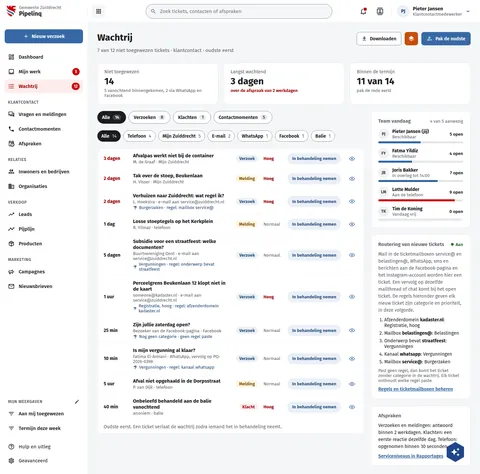
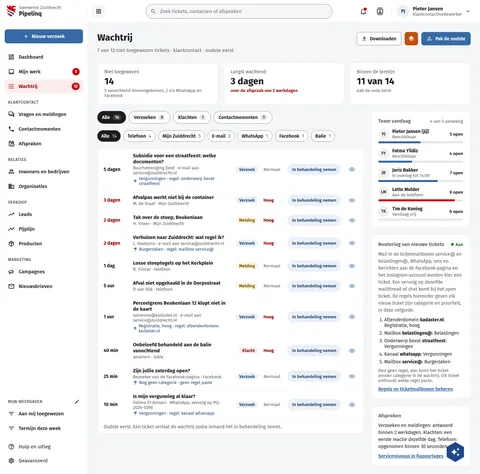
fix(screens): PqWachtrij rows end with a comma so the reordered list parses
The reorder put the row without a trailing comma mid-list and build.py exited 1; the flattened board and thumbnail are rebuilt from the fixed source.

Assisted-by: ClaudeCode:claude-fable-5-1

diff --git a/preview/screens/boards/PqWachtrij.html b/preview/screens/boards/PqWachtrij.html
@@ -248,6 +248,15 @@ a{color:var(--sc-primary, #3669a5)}a:hover{color:var(--sc-primary-deep, #234a78)
           <section style="min-width: 0; background: #ffffff; border: 1px solid var(--sc-work-line, #e4e6ea); border-radius: 12px; display: flex; flex-direction: column">
             
               <div style="display: flex; flex-wrap: wrap; align-items: center; gap: 8px 16px; padding: 12px 18px; border-bottom: 1px solid var(--sc-work-soft, #eef0f3)">
+                <span style="flex: none; width: 72px; font-size: 14px; font-weight: 700; color: var(--sc-work-ink, #1b1c1d);">5 dagen</span>
+                <a href="PqTicket.html" style="flex: 1 1 260px; display: flex; flex-direction: column; gap: 2px; color: var(--sc-work-ink, #1b1c1d); text-decoration: none"><strong style="font-size: 15px">Subsidie voor een straatfeest: welke documenten?</strong><span style="font-size: 13px; color: var(--sc-work-muted, #5e6168)">Buurtvereniging Oost · e-mail aan service@zuiddrecht.nl</span><span style="display: inline-flex; align-items: center; gap: 5px; font-size: 13px; color: var(--sc-primary-deep, #234a78)"><svg width="13" height="13" viewbox="0 0 24 24" fill="currentColor" aria-hidden="true"><path d="M11,10H5L3,8L5,6H11V3L12,2L13,3V4H19L21,6L19,8H13V10H19L21,12L19,14H13V20A2,2 0 0,1 15,22H9A2,2 0 0,1 11,20V10Z"></path></svg>Vergunningen · regel: onderwerp bevat straatfeest</span></a>
+                <span style="display: inline-block; padding: 3px 10px; border-radius: 12px; font-size: 13px; font-weight: 600; white-space: nowrap; background: var(--sc-primary-light, #eaf0f7); color: var(--sc-primary-deep, #234a78)">Verzoek</span>
+                <span style="width: 56px; font-size: 13px; color: var(--sc-work-muted, #5e6168);">Normaal</span>
+                <button type="button" style="height: 34px; padding: 0 14px; border: 0; border-radius: 17px; background: var(--sc-primary-light, #eaf0f7); color: var(--sc-primary-deep, #234a78); font: 600 13px var(--sc-font, 'Fira Sans'), sans-serif">In behandeling nemen</button>
+                <a href="PqTicket.html" aria-label="Ticket bekijken" style="width: 34px; height: 34px; border-radius: 17px; display: inline-flex; align-items: center; justify-content: center; color: var(--sc-primary, #3669a5)"><svg width="18" height="18" viewbox="0 0 24 24" fill="currentColor"><path d="M12,9A3,3 0 0,1 15,12A3,3 0 0,1 12,15A3,3 0 0,1 9,12A3,3 0 0,1 12,9M12,4.5C17,4.5 21.27,7.61 23,12C21.27,16.39 17,19.5 12,19.5C7,19.5 2.73,16.39 1,12C2.73,7.61 7,4.5 12,4.5M3.18,12C4.83,15.36 8.24,17.5 12,17.5C15.76,17.5 19.17,15.36 20.82,12C19.17,8.64 15.76,6.5 12,6.5C8.24,6.5 4.83,8.64 3.18,12Z"></path></svg></a>
+              </div>
+            
+              <div style="display: flex; flex-wrap: wrap; align-items: center; gap: 8px 16px; padding: 12px 18px; border-bottom: 1px solid var(--sc-work-soft, #eef0f3)">
                 <span style="flex: none; width: 72px; font-size: 14px; font-weight: 700; color: var(--sc-accent-deep, #a30000);">3 dagen</span>
                 <a href="PqTicket.html" style="flex: 1 1 260px; display: flex; flex-direction: column; gap: 2px; color: var(--sc-work-ink, #1b1c1d); text-decoration: none"><strong style="font-size: 15px">Afvalpas werkt niet bij de container</strong><span style="font-size: 13px; color: var(--sc-work-muted, #5e6168)">M. de Graaf · Mijn Zuiddrecht</span></a>
                 <span style="display: inline-block; padding: 3px 10px; border-radius: 12px; font-size: 13px; font-weight: 600; white-space: nowrap; background: var(--sc-primary-light, #eaf0f7); color: var(--sc-primary-deep, #234a78)">Verzoek</span>
@@ -284,9 +293,9 @@ a{color:var(--sc-primary, #3669a5)}a:hover{color:var(--sc-primary-deep, #234a78)
               </div>
             
               <div style="display: flex; flex-wrap: wrap; align-items: center; gap: 8px 16px; padding: 12px 18px; border-bottom: 1px solid var(--sc-work-soft, #eef0f3)">
-                <span style="flex: none; width: 72px; font-size: 14px; font-weight: 700; color: var(--sc-work-ink, #1b1c1d);">5 dagen</span>
-                <a href="PqTicket.html" style="flex: 1 1 260px; display: flex; flex-direction: column; gap: 2px; color: var(--sc-work-ink, #1b1c1d); text-decoration: none"><strong style="font-size: 15px">Subsidie voor een straatfeest: welke documenten?</strong><span style="font-size: 13px; color: var(--sc-work-muted, #5e6168)">Buurtvereniging Oost · e-mail aan service@zuiddrecht.nl</span><span style="display: inline-flex; align-items: center; gap: 5px; font-size: 13px; color: var(--sc-primary-deep, #234a78)"><svg width="13" height="13" viewbox="0 0 24 24" fill="currentColor" aria-hidden="true"><path d="M11,10H5L3,8L5,6H11V3L12,2L13,3V4H19L21,6L19,8H13V10H19L21,12L19,14H13V20A2,2 0 0,1 15,22H9A2,2 0 0,1 11,20V10Z"></path></svg>Vergunningen · regel: onderwerp bevat straatfeest</span></a>
-                <span style="display: inline-block; padding: 3px 10px; border-radius: 12px; font-size: 13px; font-weight: 600; white-space: nowrap; background: var(--sc-primary-light, #eaf0f7); color: var(--sc-primary-deep, #234a78)">Verzoek</span>
+                <span style="flex: none; width: 72px; font-size: 14px; font-weight: 700; color: var(--sc-work-ink, #1b1c1d);">5 uur</span>
+                <a href="PqTicket.html" style="flex: 1 1 260px; display: flex; flex-direction: column; gap: 2px; color: var(--sc-work-ink, #1b1c1d); text-decoration: none"><strong style="font-size: 15px">Afval niet opgehaald in de Dorpsstraat</strong><span style="font-size: 13px; color: var(--sc-work-muted, #5e6168)">P. van Dijk · telefoon</span></a>
+                <span style="display: inline-block; padding: 3px 10px; border-radius: 12px; font-size: 13px; font-weight: 600; white-space: nowrap; background: #fff4de; color: #7a4f00">Melding</span>
                 <span style="width: 56px; font-size: 13px; color: var(--sc-work-muted, #5e6168);">Normaal</span>
                 <button type="button" style="height: 34px; padding: 0 14px; border: 0; border-radius: 17px; background: var(--sc-primary-light, #eaf0f7); color: var(--sc-primary-deep, #234a78); font: 600 13px var(--sc-font, 'Fira Sans'), sans-serif">In behandeling nemen</button>
                 <a href="PqTicket.html" aria-label="Ticket bekijken" style="width: 34px; height: 34px; border-radius: 17px; display: inline-flex; align-items: center; justify-content: center; color: var(--sc-primary, #3669a5)"><svg width="18" height="18" viewbox="0 0 24 24" fill="currentColor"><path d="M12,9A3,3 0 0,1 15,12A3,3 0 0,1 12,15A3,3 0 0,1 9,12A3,3 0 0,1 12,9M12,4.5C17,4.5 21.27,7.61 23,12C21.27,16.39 17,19.5 12,19.5C7,19.5 2.73,16.39 1,12C2.73,7.61 7,4.5 12,4.5M3.18,12C4.83,15.36 8.24,17.5 12,17.5C15.76,17.5 19.17,15.36 20.82,12C19.17,8.64 15.76,6.5 12,6.5C8.24,6.5 4.83,8.64 3.18,12Z"></path></svg></a>
@@ -296,6 +305,15 @@ a{color:var(--sc-primary, #3669a5)}a:hover{color:var(--sc-primary-deep, #234a78)
                 <span style="flex: none; width: 72px; font-size: 14px; font-weight: 700; color: var(--sc-work-ink, #1b1c1d);">1 uur</span>
                 <a href="PqTicket.html" style="flex: 1 1 260px; display: flex; flex-direction: column; gap: 2px; color: var(--sc-work-ink, #1b1c1d); text-decoration: none"><strong style="font-size: 15px">Perceelgrens Beukenlaan 12 klopt niet in de kaart</strong><span style="font-size: 13px; color: var(--sc-work-muted, #5e6168)">someone@kadaster.nl · e-mail aan service@zuiddrecht.nl</span><span style="display: inline-flex; align-items: center; gap: 5px; font-size: 13px; color: var(--sc-primary-deep, #234a78)"><svg width="13" height="13" viewbox="0 0 24 24" fill="currentColor" aria-hidden="true"><path d="M11,10H5L3,8L5,6H11V3L12,2L13,3V4H19L21,6L19,8H13V10H19L21,12L19,14H13V20A2,2 0 0,1 15,22H9A2,2 0 0,1 11,20V10Z"></path></svg>Registratie, hoog · regel: afzenderdomein kadaster.nl</span></a>
                 <span style="display: inline-block; padding: 3px 10px; border-radius: 12px; font-size: 13px; font-weight: 600; white-space: nowrap; background: var(--sc-primary-light, #eaf0f7); color: var(--sc-primary-deep, #234a78)">Verzoek</span>
+                <span style="width: 56px; font-size: 13px; color: var(--sc-accent-deep, #a30000); font-weight: 700;">Hoog</span>
+                <button type="button" style="height: 34px; padding: 0 14px; border: 0; border-radius: 17px; background: var(--sc-primary-light, #eaf0f7); color: var(--sc-primary-deep, #234a78); font: 600 13px var(--sc-font, 'Fira Sans'), sans-serif">In behandeling nemen</button>
+                <a href="PqTicket.html" aria-label="Ticket bekijken" style="width: 34px; height: 34px; border-radius: 17px; display: inline-flex; align-items: center; justify-content: center; color: var(--sc-primary, #3669a5)"><svg width="18" height="18" viewbox="0 0 24 24" fill="currentColor"><path d="M12,9A3,3 0 0,1 15,12A3,3 0 0,1 12,15A3,3 0 0,1 9,12A3,3 0 0,1 12,9M12,4.5C17,4.5 21.27,7.61 23,12C21.27,16.39 17,19.5 12,19.5C7,19.5 2.73,16.39 1,12C2.73,7.61 7,4.5 12,4.5M3.18,12C4.83,15.36 8.24,17.5 12,17.5C15.76,17.5 19.17,15.36 20.82,12C19.17,8.64 15.76,6.5 12,6.5C8.24,6.5 4.83,8.64 3.18,12Z"></path></svg></a>
+              </div>
+            
+              <div style="display: flex; flex-wrap: wrap; align-items: center; gap: 8px 16px; padding: 12px 18px; border-bottom: 1px solid var(--sc-work-soft, #eef0f3)">
+                <span style="flex: none; width: 72px; font-size: 14px; font-weight: 700; color: var(--sc-work-ink, #1b1c1d);">40 min</span>
+                <a href="PqTicket.html" style="flex: 1 1 260px; display: flex; flex-direction: column; gap: 2px; color: var(--sc-work-ink, #1b1c1d); text-decoration: none"><strong style="font-size: 15px">Onbeleefd behandeld aan de balie vanochtend</strong><span style="font-size: 13px; color: var(--sc-work-muted, #5e6168)">anoniem · balie</span></a>
+                <span style="display: inline-block; padding: 3px 10px; border-radius: 12px; font-size: 13px; font-weight: 600; white-space: nowrap; background: #fcedec; color: var(--sc-accent-deep, #a30000)">Klacht</span>
                 <span style="width: 56px; font-size: 13px; color: var(--sc-accent-deep, #a30000); font-weight: 700;">Hoog</span>
                 <button type="button" style="height: 34px; padding: 0 14px; border: 0; border-radius: 17px; background: var(--sc-primary-light, #eaf0f7); color: var(--sc-primary-deep, #234a78); font: 600 13px var(--sc-font, 'Fira Sans'), sans-serif">In behandeling nemen</button>
                 <a href="PqTicket.html" aria-label="Ticket bekijken" style="width: 34px; height: 34px; border-radius: 17px; display: inline-flex; align-items: center; justify-content: center; color: var(--sc-primary, #3669a5)"><svg width="18" height="18" viewbox="0 0 24 24" fill="currentColor"><path d="M12,9A3,3 0 0,1 15,12A3,3 0 0,1 12,15A3,3 0 0,1 9,12A3,3 0 0,1 12,9M12,4.5C17,4.5 21.27,7.61 23,12C21.27,16.39 17,19.5 12,19.5C7,19.5 2.73,16.39 1,12C2.73,7.61 7,4.5 12,4.5M3.18,12C4.83,15.36 8.24,17.5 12,17.5C15.76,17.5 19.17,15.36 20.82,12C19.17,8.64 15.76,6.5 12,6.5C8.24,6.5 4.83,8.64 3.18,12Z"></path></svg></a>
@@ -315,24 +333,6 @@ a{color:var(--sc-primary, #3669a5)}a:hover{color:var(--sc-primary-deep, #234a78)
                 <a href="PqTicket.html" style="flex: 1 1 260px; display: flex; flex-direction: column; gap: 2px; color: var(--sc-work-ink, #1b1c1d); text-decoration: none"><strong style="font-size: 15px">Is mijn vergunning al klaar?</strong><span style="font-size: 13px; color: var(--sc-work-muted, #5e6168)">Fatima El-Amrani · WhatsApp, vervolg op PQ-2026-0398</span><span style="display: inline-flex; align-items: center; gap: 5px; font-size: 13px; color: var(--sc-primary-deep, #234a78)"><svg width="13" height="13" viewbox="0 0 24 24" fill="currentColor" aria-hidden="true"><path d="M11,10H5L3,8L5,6H11V3L12,2L13,3V4H19L21,6L19,8H13V10H19L21,12L19,14H13V20A2,2 0 0,1 15,22H9A2,2 0 0,1 11,20V10Z"></path></svg>Vergunningen · regel: kanaal whatsapp</span></a>
                 <span style="display: inline-block; padding: 3px 10px; border-radius: 12px; font-size: 13px; font-weight: 600; white-space: nowrap; background: var(--sc-primary-light, #eaf0f7); color: var(--sc-primary-deep, #234a78)">Verzoek</span>
                 <span style="width: 56px; font-size: 13px; color: var(--sc-work-muted, #5e6168);">Normaal</span>
-                <button type="button" style="height: 34px; padding: 0 14px; border: 0; border-radius: 17px; background: var(--sc-primary-light, #eaf0f7); color: var(--sc-primary-deep, #234a78); font: 600 13px var(--sc-font, 'Fira Sans'), sans-serif">In behandeling nemen</button>
-                <a href="PqTicket.html" aria-label="Ticket bekijken" style="width: 34px; height: 34px; border-radius: 17px; display: inline-flex; align-items: center; justify-content: center; color: var(--sc-primary, #3669a5)"><svg width="18" height="18" viewbox="0 0 24 24" fill="currentColor"><path d="M12,9A3,3 0 0,1 15,12A3,3 0 0,1 12,15A3,3 0 0,1 9,12A3,3 0 0,1 12,9M12,4.5C17,4.5 21.27,7.61 23,12C21.27,16.39 17,19.5 12,19.5C7,19.5 2.73,16.39 1,12C2.73,7.61 7,4.5 12,4.5M3.18,12C4.83,15.36 8.24,17.5 12,17.5C15.76,17.5 19.17,15.36 20.82,12C19.17,8.64 15.76,6.5 12,6.5C8.24,6.5 4.83,8.64 3.18,12Z"></path></svg></a>
-              </div>
-            
-              <div style="display: flex; flex-wrap: wrap; align-items: center; gap: 8px 16px; padding: 12px 18px; border-bottom: 1px solid var(--sc-work-soft, #eef0f3)">
-                <span style="flex: none; width: 72px; font-size: 14px; font-weight: 700; color: var(--sc-work-ink, #1b1c1d);">5 uur</span>
-                <a href="PqTicket.html" style="flex: 1 1 260px; display: flex; flex-direction: column; gap: 2px; color: var(--sc-work-ink, #1b1c1d); text-decoration: none"><strong style="font-size: 15px">Afval niet opgehaald in de Dorpsstraat</strong><span style="font-size: 13px; color: var(--sc-work-muted, #5e6168)">P. van Dijk · telefoon</span></a>
-                <span style="display: inline-block; padding: 3px 10px; border-radius: 12px; font-size: 13px; font-weight: 600; white-space: nowrap; background: #fff4de; color: #7a4f00">Melding</span>
-                <span style="width: 56px; font-size: 13px; color: var(--sc-work-muted, #5e6168);">Normaal</span>
-                <button type="button" style="height: 34px; padding: 0 14px; border: 0; border-radius: 17px; background: var(--sc-primary-light, #eaf0f7); color: var(--sc-primary-deep, #234a78); font: 600 13px var(--sc-font, 'Fira Sans'), sans-serif">In behandeling nemen</button>
-                <a href="PqTicket.html" aria-label="Ticket bekijken" style="width: 34px; height: 34px; border-radius: 17px; display: inline-flex; align-items: center; justify-content: center; color: var(--sc-primary, #3669a5)"><svg width="18" height="18" viewbox="0 0 24 24" fill="currentColor"><path d="M12,9A3,3 0 0,1 15,12A3,3 0 0,1 12,15A3,3 0 0,1 9,12A3,3 0 0,1 12,9M12,4.5C17,4.5 21.27,7.61 23,12C21.27,16.39 17,19.5 12,19.5C7,19.5 2.73,16.39 1,12C2.73,7.61 7,4.5 12,4.5M3.18,12C4.83,15.36 8.24,17.5 12,17.5C15.76,17.5 19.17,15.36 20.82,12C19.17,8.64 15.76,6.5 12,6.5C8.24,6.5 4.83,8.64 3.18,12Z"></path></svg></a>
-              </div>
-            
-              <div style="display: flex; flex-wrap: wrap; align-items: center; gap: 8px 16px; padding: 12px 18px; border-bottom: 1px solid var(--sc-work-soft, #eef0f3)">
-                <span style="flex: none; width: 72px; font-size: 14px; font-weight: 700; color: var(--sc-work-ink, #1b1c1d);">40 min</span>
-                <a href="PqTicket.html" style="flex: 1 1 260px; display: flex; flex-direction: column; gap: 2px; color: var(--sc-work-ink, #1b1c1d); text-decoration: none"><strong style="font-size: 15px">Onbeleefd behandeld aan de balie vanochtend</strong><span style="font-size: 13px; color: var(--sc-work-muted, #5e6168)">anoniem · balie</span></a>
-                <span style="display: inline-block; padding: 3px 10px; border-radius: 12px; font-size: 13px; font-weight: 600; white-space: nowrap; background: #fcedec; color: var(--sc-accent-deep, #a30000)">Klacht</span>
-                <span style="width: 56px; font-size: 13px; color: var(--sc-accent-deep, #a30000); font-weight: 700;">Hoog</span>
                 <button type="button" style="height: 34px; padding: 0 14px; border: 0; border-radius: 17px; background: var(--sc-primary-light, #eaf0f7); color: var(--sc-primary-deep, #234a78); font: 600 13px var(--sc-font, 'Fira Sans'), sans-serif">In behandeling nemen</button>
                 <a href="PqTicket.html" aria-label="Ticket bekijken" style="width: 34px; height: 34px; border-radius: 17px; display: inline-flex; align-items: center; justify-content: center; color: var(--sc-primary, #3669a5)"><svg width="18" height="18" viewbox="0 0 24 24" fill="currentColor"><path d="M12,9A3,3 0 0,1 15,12A3,3 0 0,1 12,15A3,3 0 0,1 9,12A3,3 0 0,1 12,9M12,4.5C17,4.5 21.27,7.61 23,12C21.27,16.39 17,19.5 12,19.5C7,19.5 2.73,16.39 1,12C2.73,7.61 7,4.5 12,4.5M3.18,12C4.83,15.36 8.24,17.5 12,17.5C15.76,17.5 19.17,15.36 20.82,12C19.17,8.64 15.76,6.5 12,6.5C8.24,6.5 4.83,8.64 3.18,12Z"></path></svg></a>
               </div>

diff --git a/screens-src/zuiddrecht/PqWachtrij.dc.html b/screens-src/zuiddrecht/PqWachtrij.dc.html
@@ -139,7 +139,7 @@ class Component extends DCLogic {
       ['1 dag', 'Losse stoeptegels op het Kerkplein', 'R. Yilmaz · telefoon', 'Melding', false],
       ['5 uur', 'Afval niet opgehaald in de Dorpsstraat', 'P. van Dijk · telefoon', 'Melding', false],
       ['1 uur', 'Perceelgrens Beukenlaan 12 klopt niet in de kaart', 'someone@kadaster.nl · e-mail aan service@zuiddrecht.nl', 'Verzoek', false, 'Registratie, hoog · regel: afzenderdomein kadaster.nl'],
-      ['40 min', 'Onbeleefd behandeld aan de balie vanochtend', 'anoniem · balie', 'Klacht', false]
+      ['40 min', 'Onbeleefd behandeld aan de balie vanochtend', 'anoniem · balie', 'Klacht', false],
       ['25 min', 'Zijn jullie zaterdag open?', 'Bezoeker van de Facebook-pagina · Facebook', 'Verzoek', false, 'Nog geen categorie · geen regel paste'],
       ['10 min', 'Is mijn vergunning al klaar?', 'Fatima El-Amrani · WhatsApp, vervolg op PQ-2026-0398', 'Verzoek', false, 'Vergunningen · regel: kanaal whatsapp'],
     ].map(([w, subject, meta, kind, late, route]) => ({ wait: w, subject, meta, kind, route: route || '', hasRoute: !!route, pill: T[kind], waitStyle: waitStyle(late), prio: (late || kind === 'Klacht' || /hoog/.test(route || '')) ? 'Hoog' : 'Normaal', prioStyle: 'width: 56px; font-size: 13px; ' + ((late || kind === 'Klacht' || /hoog/.test(route || '')) ? 'color: #a30000; font-weight: 700;' : 'color: #5e6168;') }));
